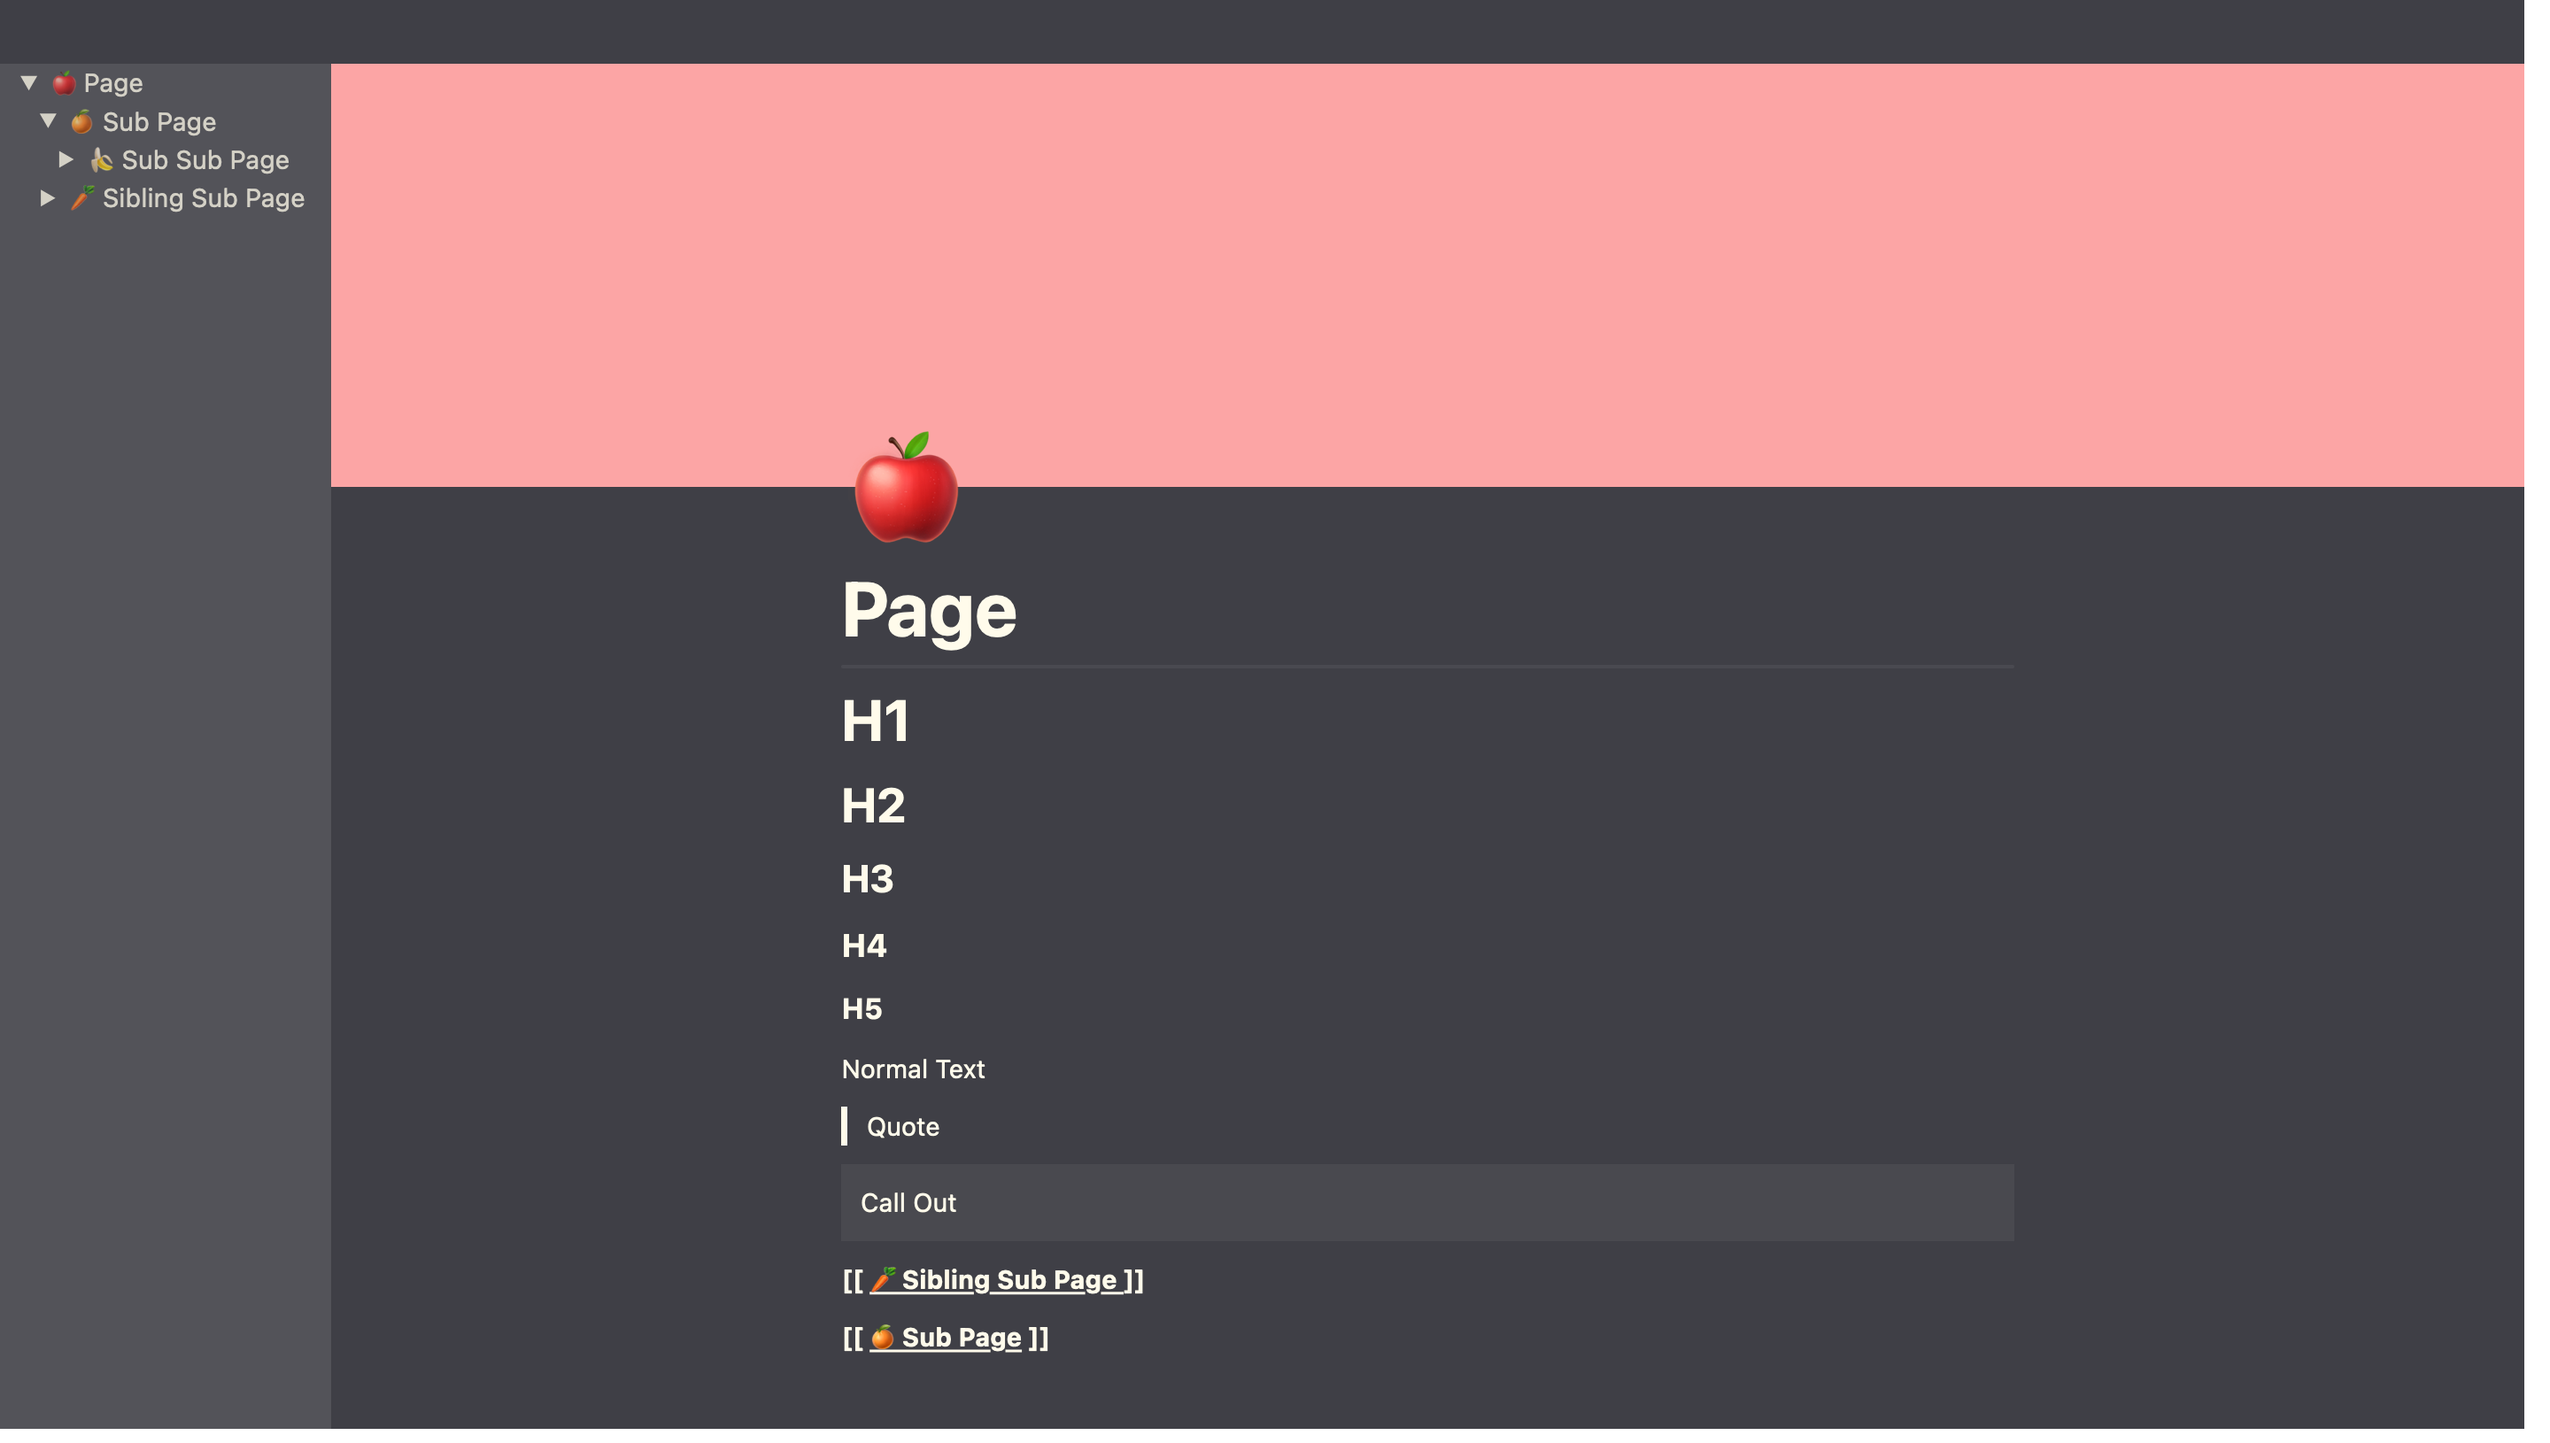
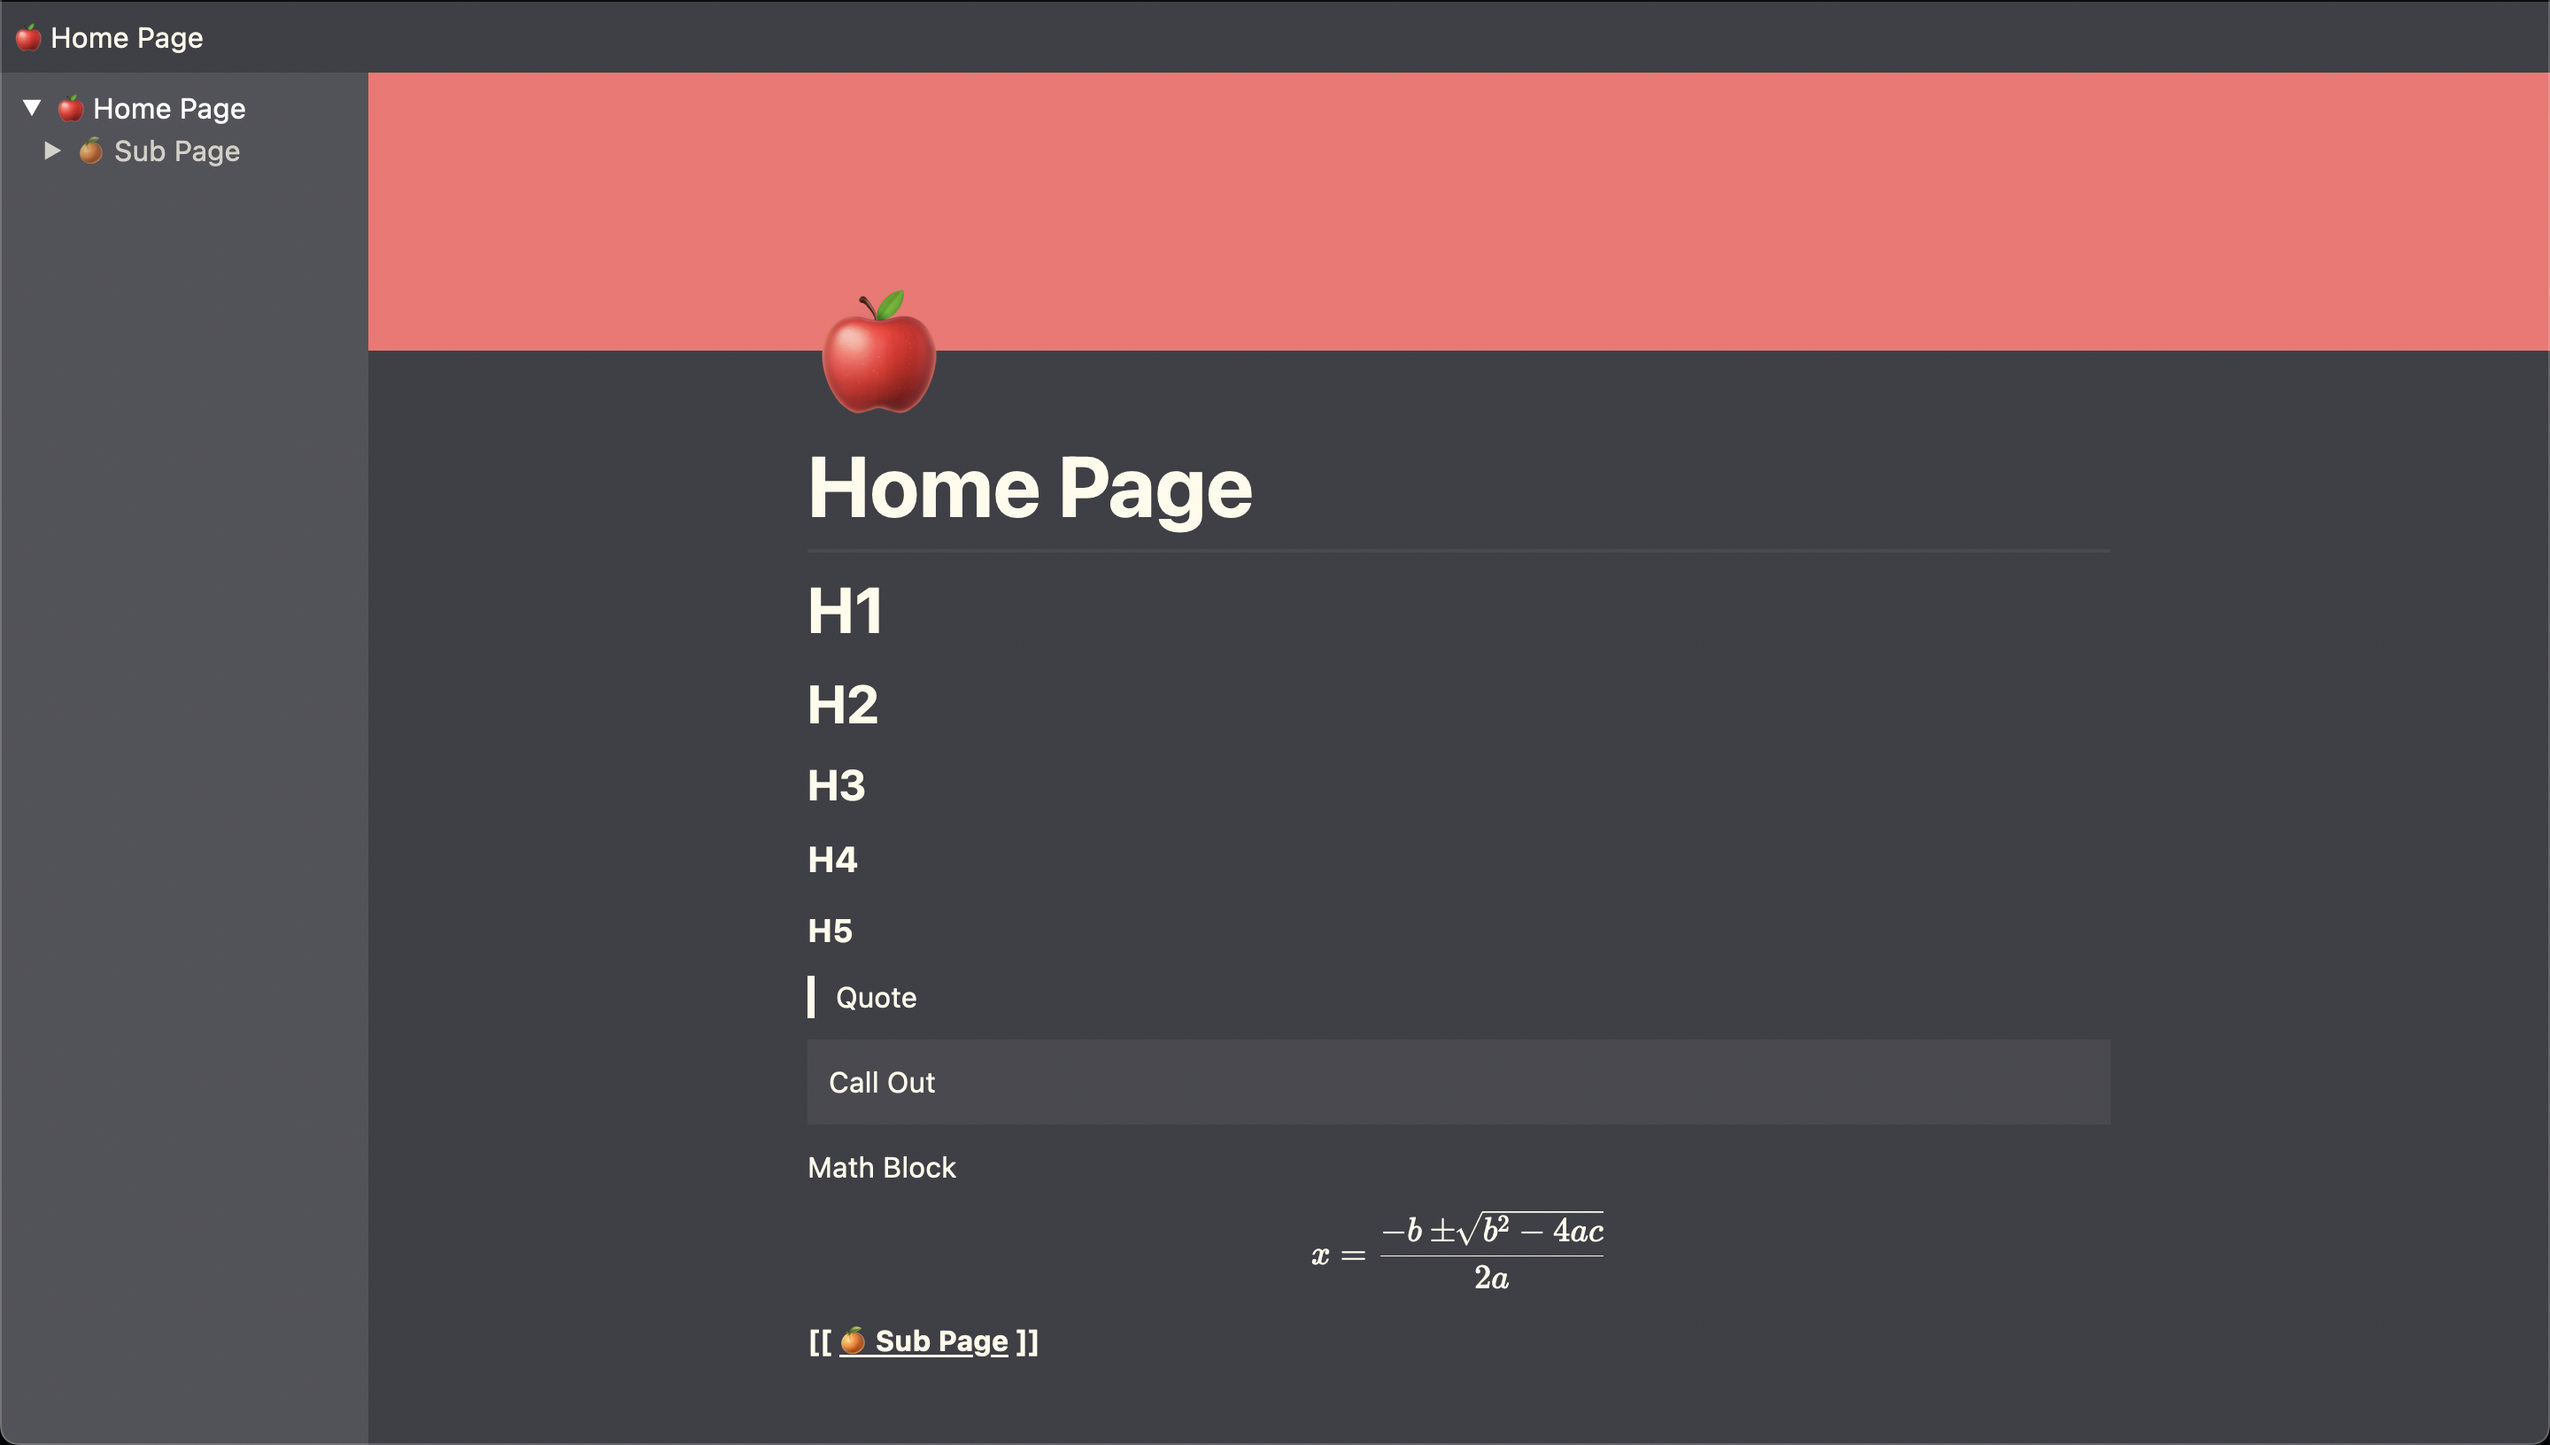
Add math block to preview image

Changed region(s): [[0.0, 0.0, 1.0, 1.0], [0.3125, 0.7362, 0.4375, 0.9509], [0.5625, 0.8282, 0.625, 0.8896]]

diff --git a/README.md b/README.md
@@ -129,6 +129,3 @@
 
 #### Current State (dark)
 <img src="./images/Desktop_Current_State_Dark.png" width="500">
-
-#### Current State (light)
-<img src="./images/Desktop_Current_State.png" width="500">
